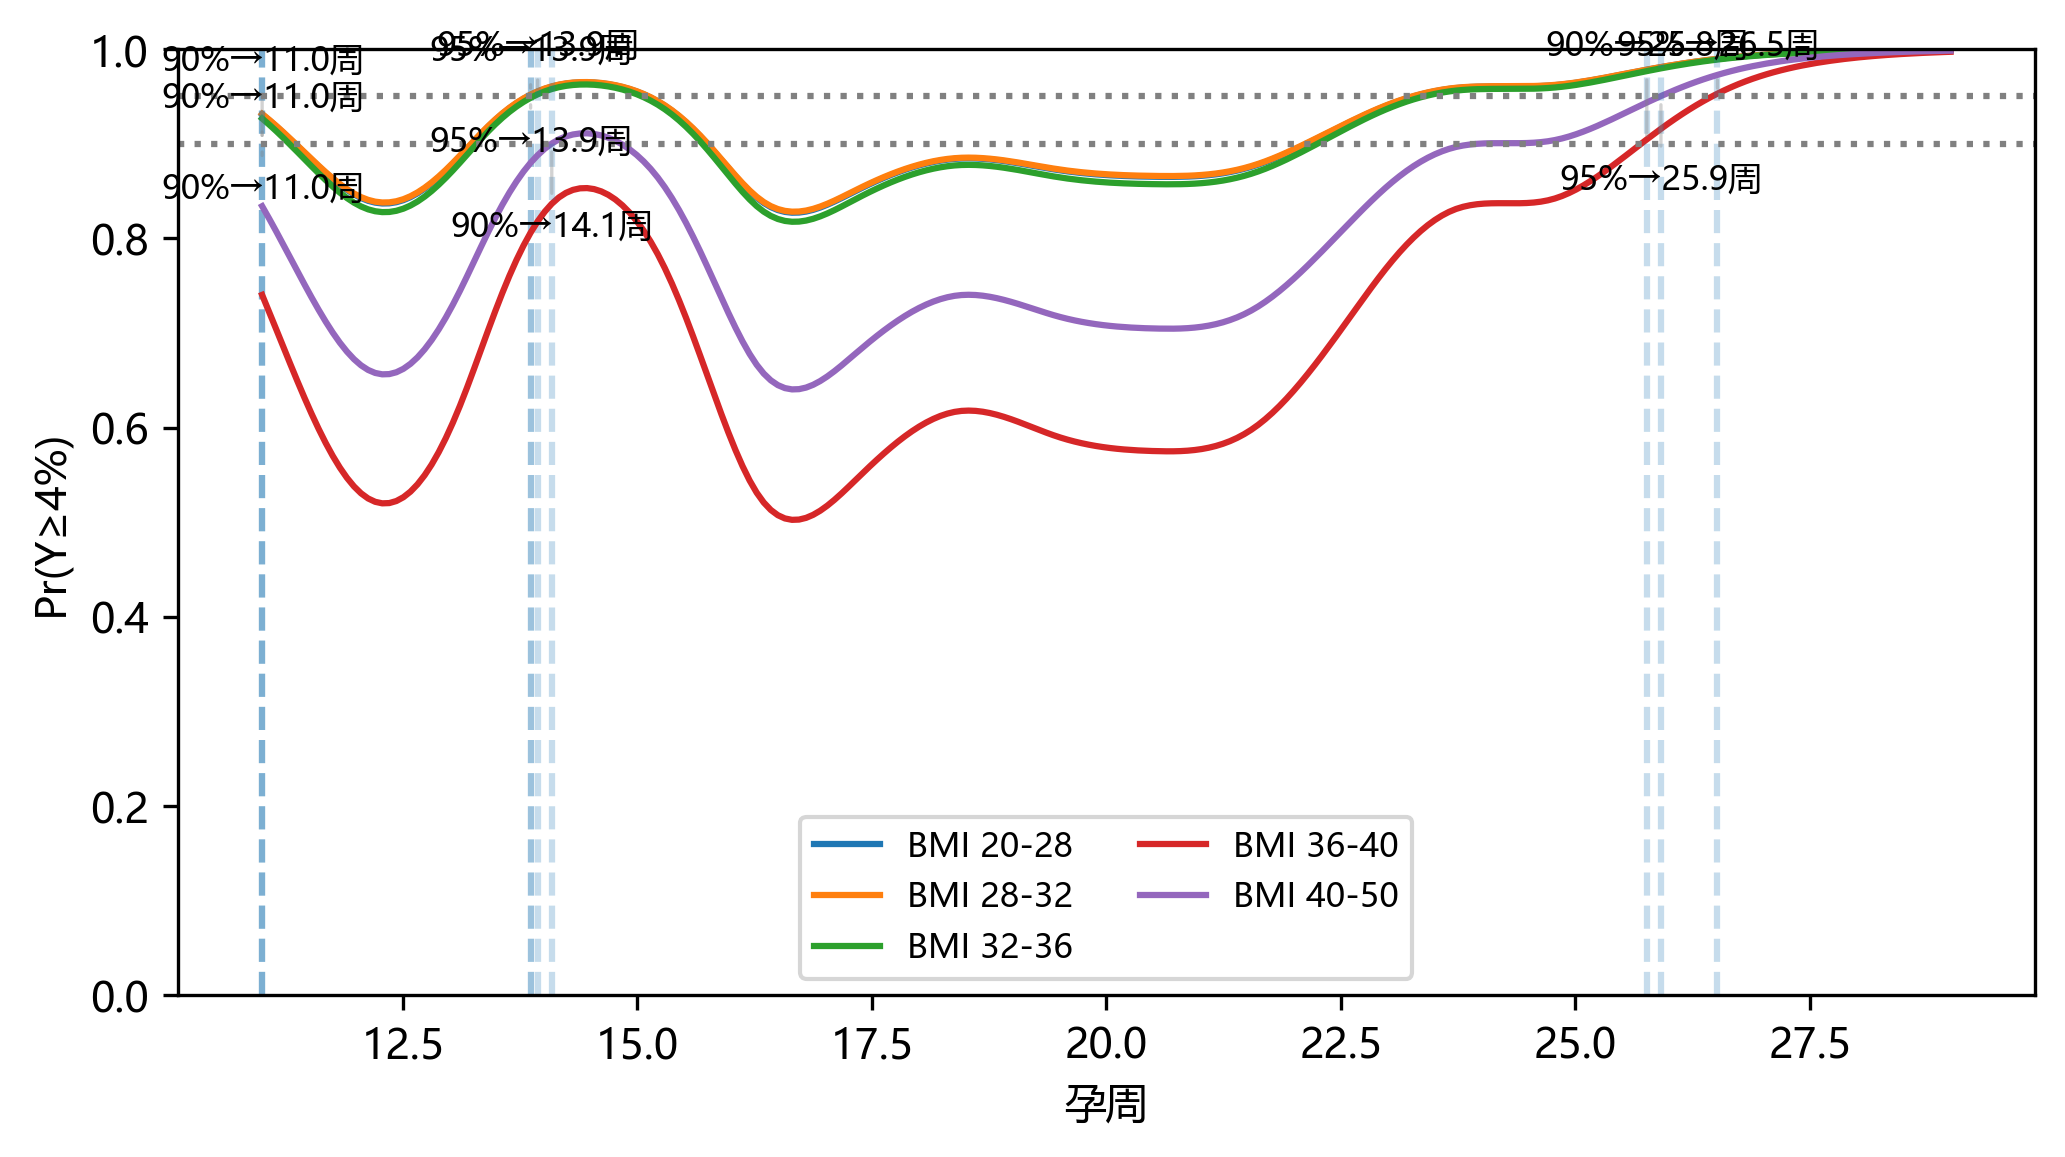
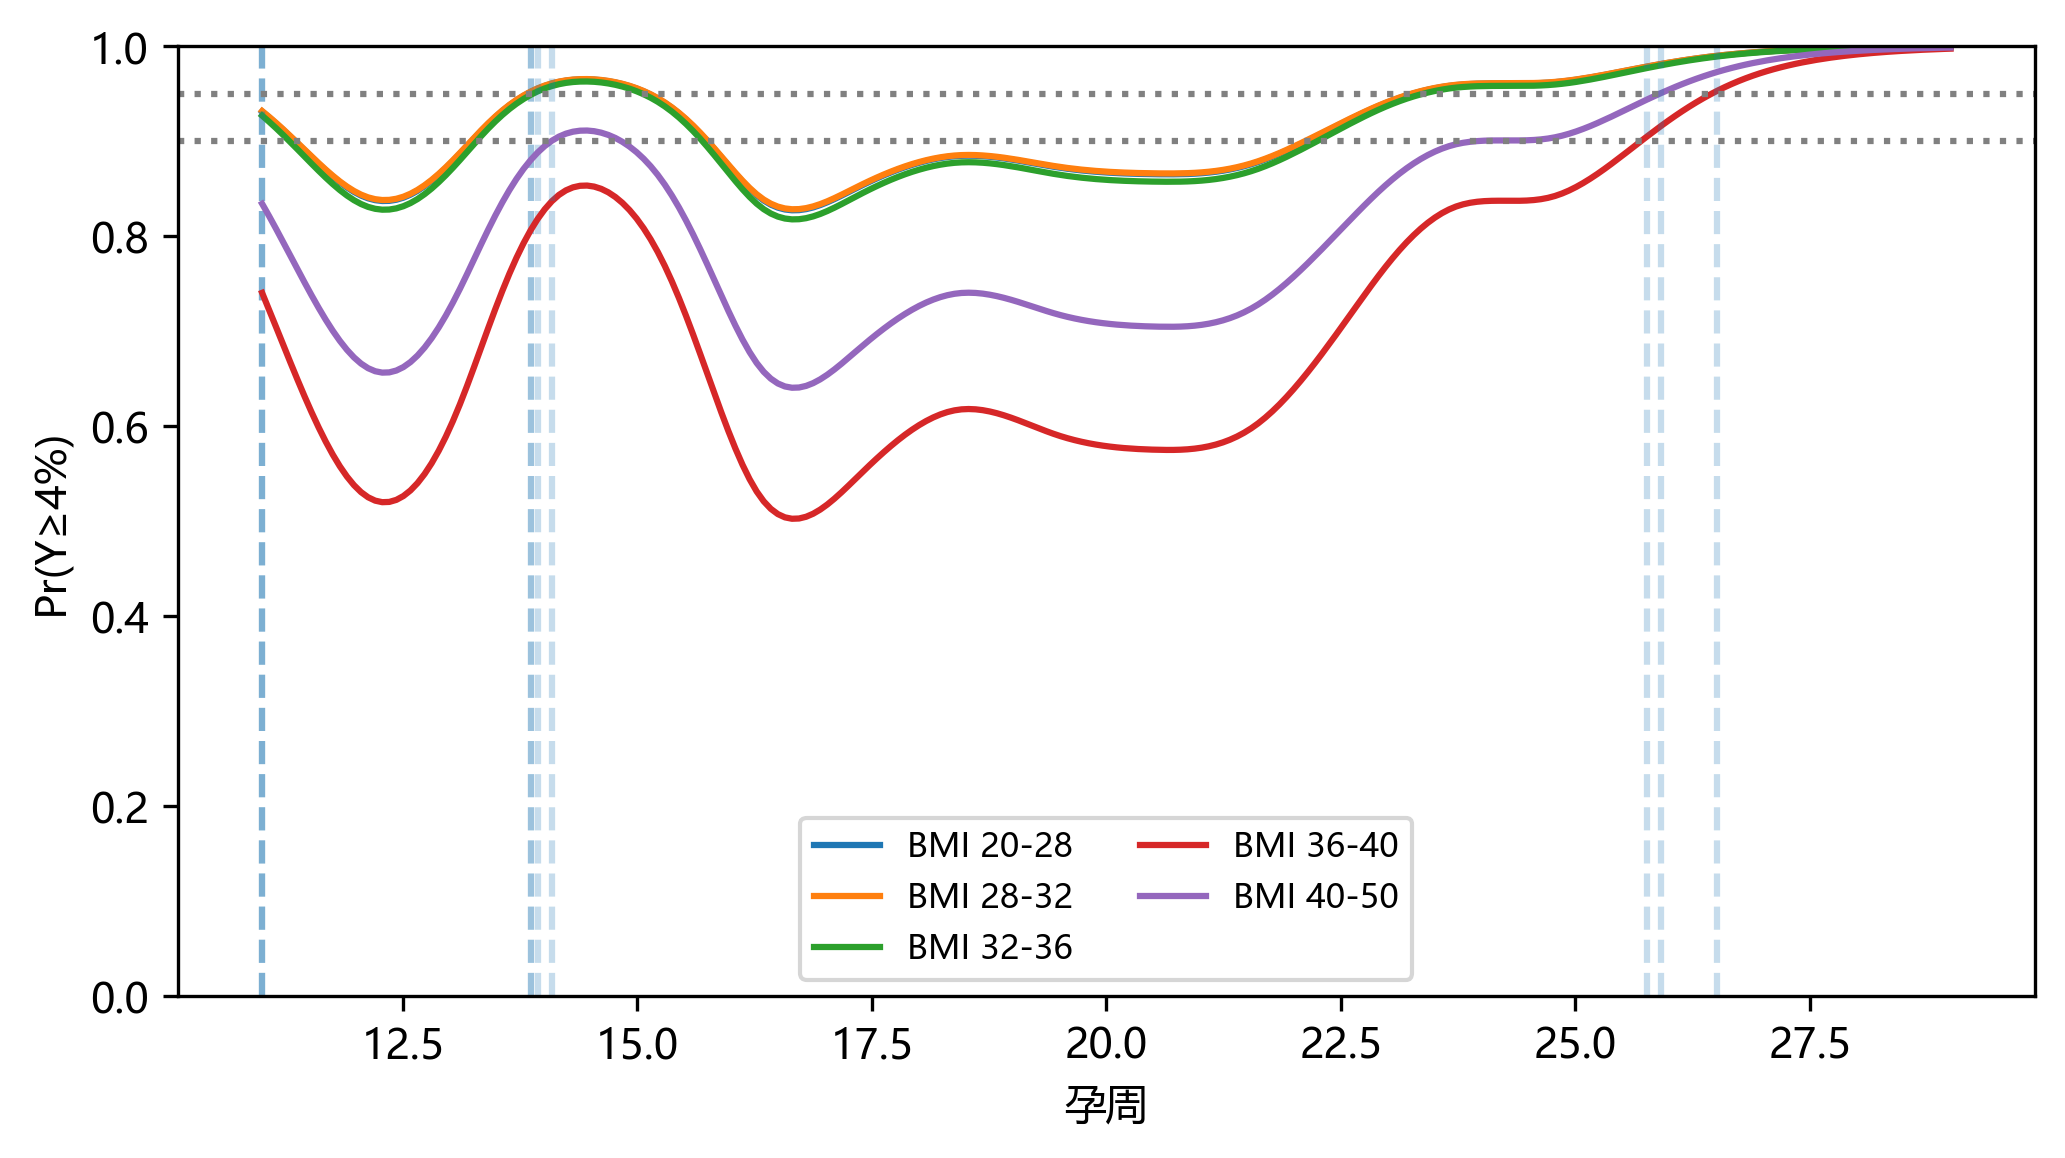
fix:修复图像的显示问题

diff --git a/code/gam_models_fixed.py b/code/gam_models_fixed.py
@@ -244,8 +244,7 @@ def main():
     week_grid = np.linspace(df["week_dec"].min(), df["week_dec"].max(), 240)
 
     fig, ax = plt.subplots(figsize=(7,4))
-    rows = []
-    annots = []  # 收集需要标注的时间点，稍后统一排布避免重叠
+    rows = []  # 收集达到阈值的孕周，单独导出为表格
     for grp, bmi0 in bmi_reprs.items():
         Xg = np.c_[week_grid, np.full_like(week_grid, bmi0)]
         if len(qc_cols):
@@ -257,47 +256,54 @@ def main():
             idx = int(np.argmax(p >= tar))
             if p[idx] >= tar:
                 t_star = float(week_grid[idx])
-                ax.axvline(t_star, ls='--', alpha=.25)
-                # 不直接在同一 y 处竖排文字，改为统一收集后分层标注
-                annots.append({
-                    "tar": tar,
-                    "t": t_star,
-                    "label": f'{int(tar*100)}%→{t_star:.1f}周'
-                })
+                ax.axvline(t_star, ls='--', alpha=.25)  # 仅保留参考竖线，不加文字
                 rows.append({"bmi_group": f"{int(grp.left)}-{int(grp.right)}",
                              "target": tar, "t_star_week": t_star})
     ax.axhline(0.90, ls=':', color='gray'); ax.axhline(0.95, ls=':', color='gray')
-    # 统一处理标注，按 tar 分组，避免重叠：在目标线的上下交错堆叠，并用箭头连接
-    for tar in (0.90, 0.95):
-        pts = [a for a in annots if abs(a["tar"] - tar) < 1e-9]
-        if not pts:
-            continue
-        pts.sort(key=lambda x: x["t"])  # 按时间从早到晚
-        dy = 0.04
-        y_up_base = min(tar + 0.03, 0.98)
-        y_dn_base = max(tar - 0.03, 0.02)
-        up_cnt = dn_cnt = 0
-        for k, a in enumerate(pts):
-            if k % 2 == 0:  # 交替放到上方/下方
-                y_text = min(y_up_base + up_cnt * dy, 0.985)
-                va = 'bottom'
-                up_cnt += 1
-            else:
-                y_text = max(y_dn_base - dn_cnt * dy, 0.015)
-                va = 'top'
-                dn_cnt += 1
-            ax.annotate(
-                a["label"], xy=(a["t"], tar), xytext=(a["t"], y_text), textcoords='data',
-                ha='center', va=va,
-                fontsize=8,
-                arrowprops=dict(arrowstyle='-', lw=0.8, alpha=0.35, color='gray')
-            )
     ax.set_ylim(0,1); ax.set_xlabel("孕周"); ax.set_ylabel(f"Pr(Y≥{Y_THRESHOLD*100:.0f}%)")
     ax.legend(ncol=2, fontsize=8)
     savefig(fig, os.path.join(outdir, "LogisticGAM_Prob_vs_Week_byBMI.png"))
 
-    pd.DataFrame(rows).to_csv(os.path.join(outdir,"t_at_targets_by_BMI.csv"),
-                              index=False, encoding="utf-8-sig")
+    # 导出达到阈值的孕周（长表）
+    df_rows = pd.DataFrame(rows)
+    df_rows.to_csv(os.path.join(outdir,"t_at_targets_by_BMI.csv"),
+                   index=False, encoding="utf-8-sig")
+    # 透视为宽表，便于阅读：每个 BMI 组一行，包含 t@90%, t@95%
+    wide = df_rows.pivot(index='bmi_group', columns='target', values='t_star_week')
+    # 列重命名
+    rename_map = {}
+    for c in wide.columns:
+        try:
+            val = float(c)
+        except Exception:
+            val = c
+        if val == 0.90:
+            rename_map[c] = 't_at_90'
+        elif val == 0.95:
+            rename_map[c] = 't_at_95'
+    wide = wide.rename(columns=rename_map).reset_index()
+    # 加入样本量 n（该 BMI 组中样本数）
+    bin_str = pd.cut(df["bmi"], bins=bins)
+    bin_str = bin_str.map(lambda iv: f"{int(iv.left)}-{int(iv.right)}" if pd.notna(iv) else None)
+    counts = bin_str.value_counts().to_dict()
+    wide['n_samples'] = wide['bmi_group'].map(lambda k: counts.get(k, 0))
+    wide = wide[['bmi_group','n_samples'] + [c for c in ['t_at_90','t_at_95'] if c in wide.columns]]
+    wide.to_csv(os.path.join(outdir, "t_at_targets_by_BMI_wide.csv"),
+                index=False, encoding="utf-8-sig")
+    # 同时输出一个 PNG 表格图，便于报告直接引用
+    try:
+        fig_tbl, ax_tbl = plt.subplots(figsize=(6, 0.6 + 0.35*len(wide)))
+        ax_tbl.axis('off')
+        col_labels = list(wide.columns)
+        cell_text = [[f"{x:.1f}" if isinstance(x, (int, float)) and pd.notna(x) else ("" if x is None else str(x)) for x in row]
+                     for row in wide.to_numpy()]
+        table = ax_tbl.table(cellText=cell_text, colLabels=col_labels, loc='center')
+        table.auto_set_font_size(False)
+        table.set_fontsize(9)
+        table.scale(1, 1.2)
+        savefig(fig_tbl, os.path.join(outdir, "t_at_targets_by_BMI_table.png"))
+    except Exception as e:
+        print("生成 PNG 表失败：", e)
     pd.DataFrame({
         "term":["s(week)","s(BMI)","TOTAL_EDF","ROC_AUC","PR_AUC"],
         "edf":[edf_terms_lg[0] if np.isfinite(edf_terms_lg[0]) else np.nan,
